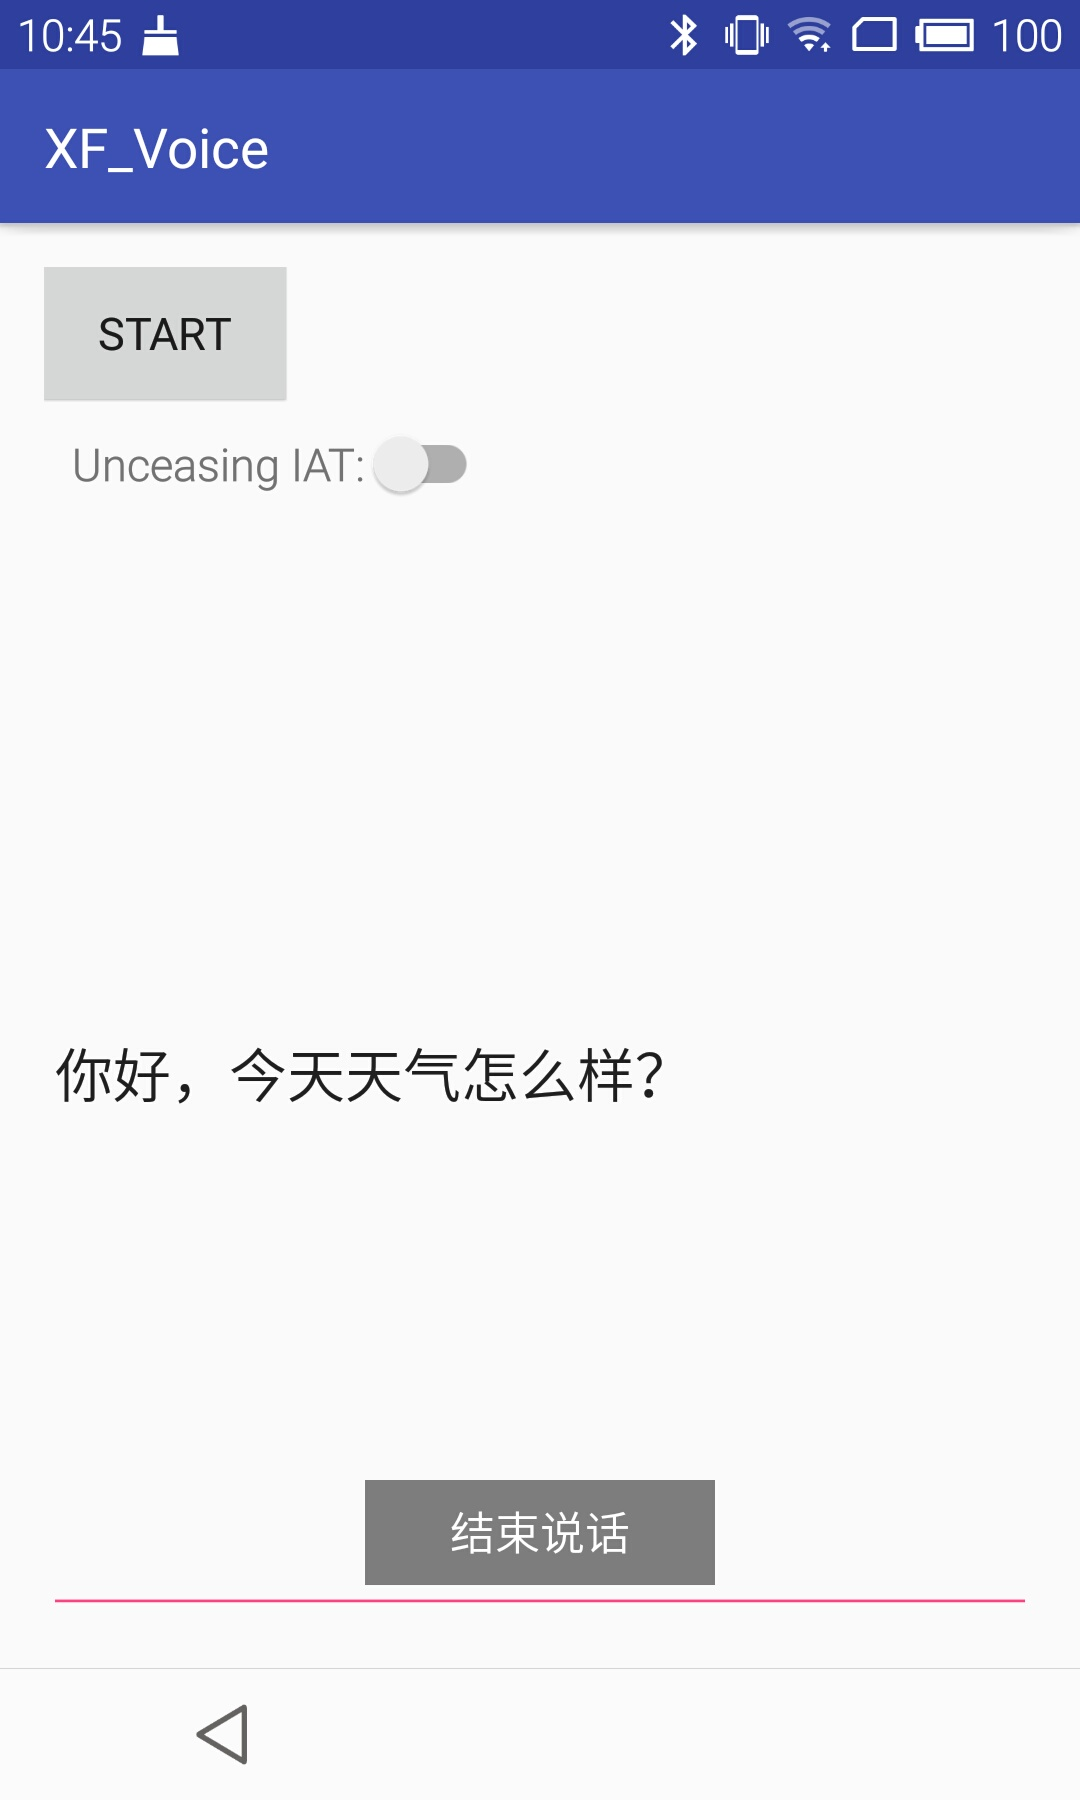
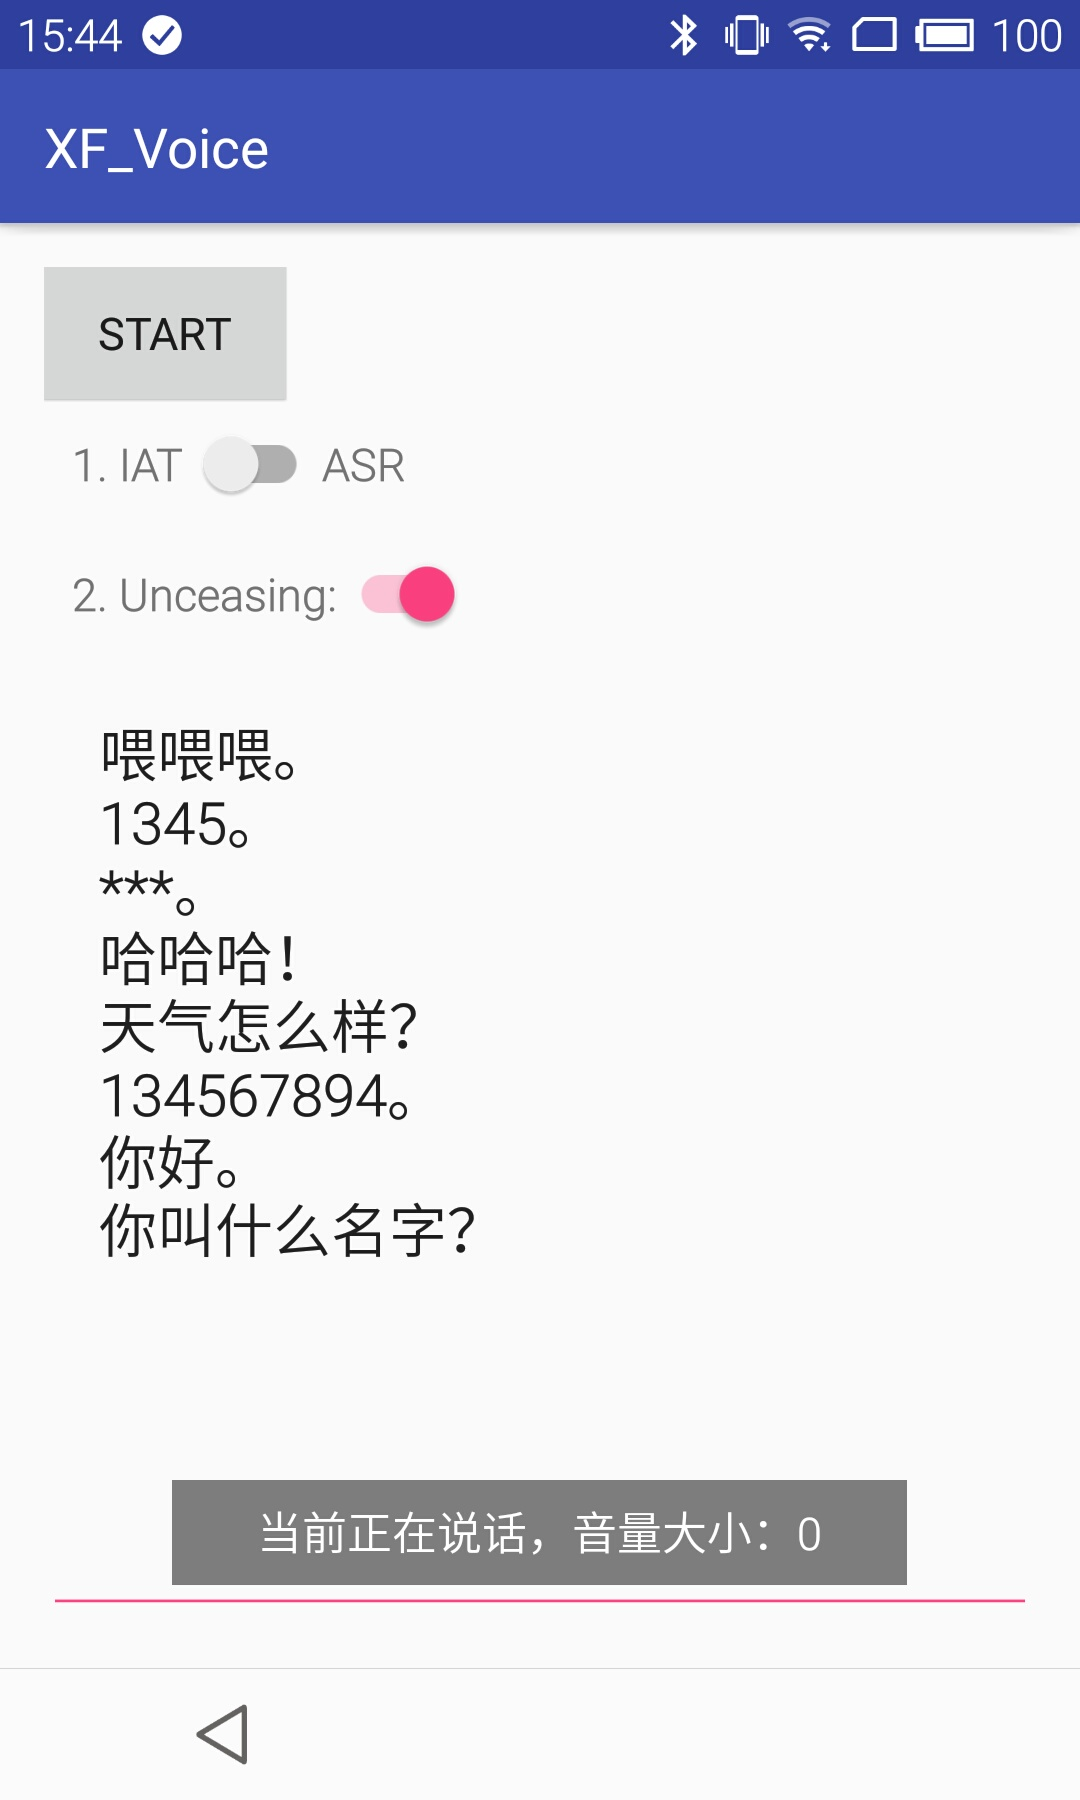
add photo

diff --git a/README.md b/README.md
@@ -1,4 +1,5 @@
 # XF_Voice
-讯飞在线语音合成，具有单次识别和连续识别模式：
+讯飞在线语音合成，具有单次识别和连续识别模式，语音听写和语音识别模式：
 
 ![image](https://github.com/flyloong/XF_Voice/blob/master/photo/photo.jpg)
+![image](https://github.com/flyloong/XF_Voice/blob/master/photo/photo2.jpg)
